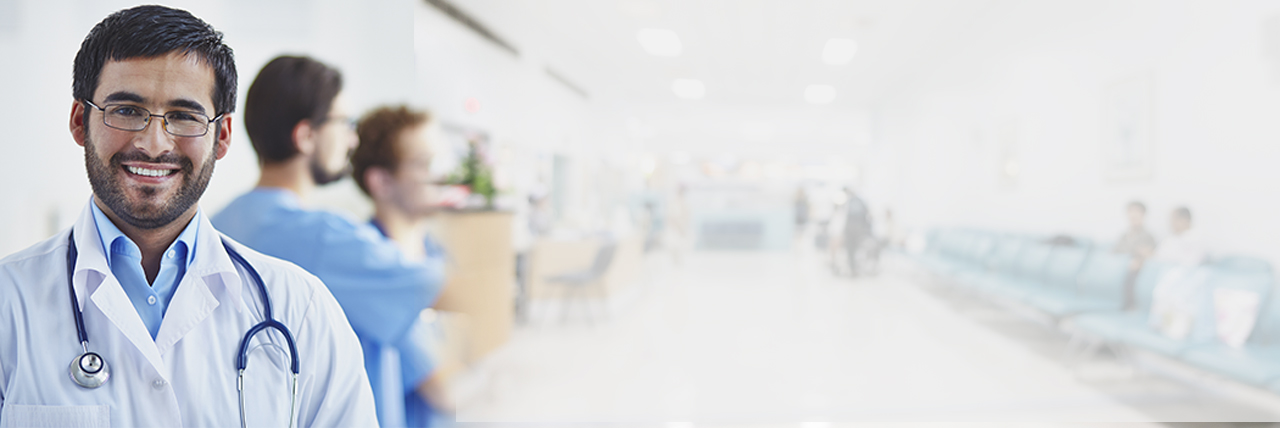
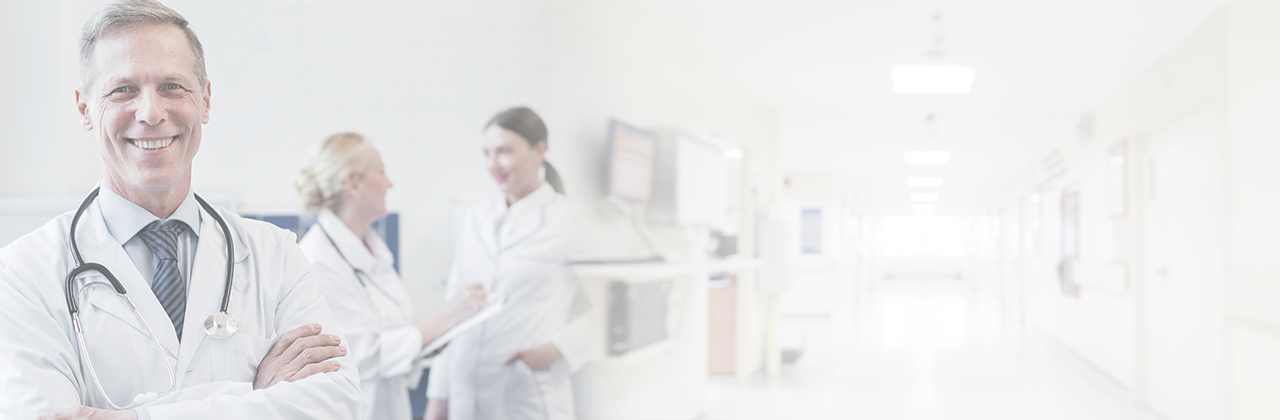
vista especialidades 100%

diff --git a/assets/css/custom.css b/assets/css/custom.css
@@ -554,17 +554,18 @@ header.box-header{
 }
 .page-home .section-especialidades .box-content{
     margin-top: 40px;
+    padding: 0 5%;
 }
 .page-home .section-especialidades .box-especialidad{
     text-align: center;
 }
 .page-home .section-especialidades .box-especialidad .box-img{
-    /*margin-bottom: 20px;*/
-    height: 160px;
+    margin-bottom: 15px;
+    /*height: 160px;*/
 }
 .page-home .section-especialidades .box-especialidad .box-img img{
-    width: 138px;
-    height: 140px;
+    width: 100px;
+    height: 100px;
 }
 .page-home .section-especialidades .box-especialidad .box-nombre{
     color: #0085b2;
@@ -573,19 +574,19 @@ header.box-header{
     text-align: center;
     margin-top: 50px;
 }
-.page-home .section-especialidades .box-content .box-action button{
+.page-home .section-especialidades .box-content .box-action .btn{
     padding: 12px 20px;
     font-size: 16px;
 }
 .page-home .section-especialidades .owl-buttons .owl-prev{
     position: absolute;
     left: -30px;
-    top: 50%;
+    top: 33%;
 }
 .page-home .section-especialidades .owl-buttons .owl-next{
     position: absolute;
     right: -30px;
-    top: 50%;
+    top: 33%;
 }
 .page-home .section-especialidades .owl-buttons svg{
     font-size: 45px;
@@ -1115,7 +1116,7 @@ header.box-header{
     color: #0085b2;
 }
 .page-esp .section-portada .img-portada .bg-portada{
-    background-image: url(../images/portada-staff.jpg);
+    background-image: url(../images/portada-especialidades.jpg);
     background-size: cover;
     width: 100%;
     height: 340px;

diff --git a/application/views/templates/header.php b/application/views/templates/header.php
@@ -74,7 +74,8 @@
 			<li>Convenios</li>
 			<li>Resultados de Laboratorio</li>
 			<li>Trabaja con Nosotros</li>
-			<li>¿Por qué elegirnos?</li>
+			<li>Novedades y Eventos</li>
+			<li>Testimonios</li>
 		</ul>
 	</div>
 	<div class="box-content-header-primary">
@@ -100,9 +101,9 @@
 		      				<li class="box-item <?php echo $active['especialidades']; ?>">
 		      					<a href="<?php echo site_url('especialidades'); ?>"> ESPECIALIDADES </a> 
 		      				</li>
-		      				<li class="box-item <?php echo $active['conocenos']; ?>">
+		      				<!-- <li class="box-item <?php echo $active['conocenos']; ?>">
 		      					<a href="<?php echo site_url('conocenos'); ?>"> CONÓCENOS </a> 
-		      				</li>
+		      				</li> -->
 		      				<li class="box-item <?php echo $active['staff_medico']; ?>">
 		      					<a href="<?php echo site_url('staff-medico'); ?>"> STAFF MÉDICO </a> 
 		      				</li>
@@ -117,7 +118,7 @@
 		      					</ul>
 		      				</li>
 		      				<li class="box-item <?php echo $active['noticias']; ?>">
-		      					<a href="<?php echo site_url('noticias'); ?>"> NOTICIAS </a> 
+		      					<a href="<?php echo site_url('noticias'); ?>"> VIDASALUD - BLOG </a> 
 		      				</li>
 		      				<li class="box-item <?php echo $active['contactanos']; ?>">
 		      					<a href="<?php echo site_url('contactanos'); ?>"> CONTÁCTANOS </a>

diff --git a/application/views/templates/footer.php b/application/views/templates/footer.php
@@ -16,7 +16,7 @@
 		  <div class="box-contacto"> 
 	      <div class="box-telefono">
 	      	<div class="box-icon">
-	      		<img src="assets/images/telefono.png" />
+	      		<img src="<?php echo base_url('assets/images/telefono.png'); ?>" />
 	      	</div>
 	      	<div class="box-items">
 	      		<div class="box-item telefono-1">
@@ -35,7 +35,7 @@
 	      </div>
 	      <div class="box-ubicación">
 	      	<div class="box-icon">
-	      		<img src="assets/images/ubicacion.png" />
+	      		<img src="<?php echo base_url('assets/images/ubicacion.png'); ?>" />
 	      	</div>
 	      	<div class="box-item">
 	      		<div class="box-key"> Ubicación: </div>

diff --git a/application/views/inicio.php b/application/views/inicio.php
@@ -55,7 +55,7 @@
           <?php endforeach; ?>
         </div>
         <div class="box-action">
-          <button type="button" class="btn btn-rounded primary"> VER TODAS LAS ESPECIALIDADES </button>
+          <a href="<?php echo site_url('especialidades'); ?>" type="button" class="btn btn-rounded primary"> VER TODAS LAS ESPECIALIDADES </a>
         </div>
       </div>
     </div>
